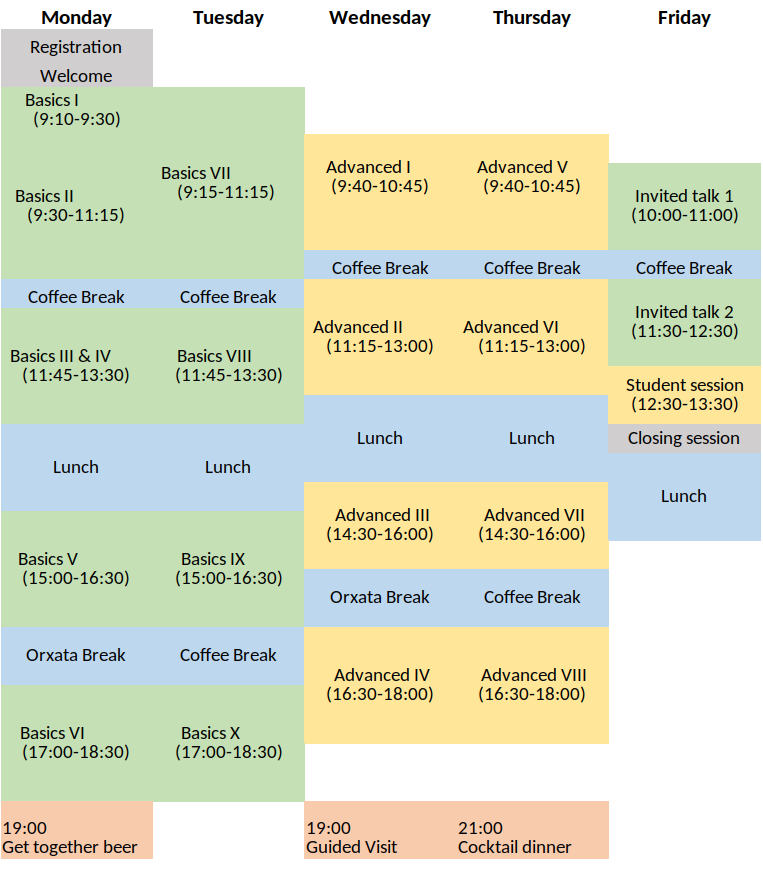
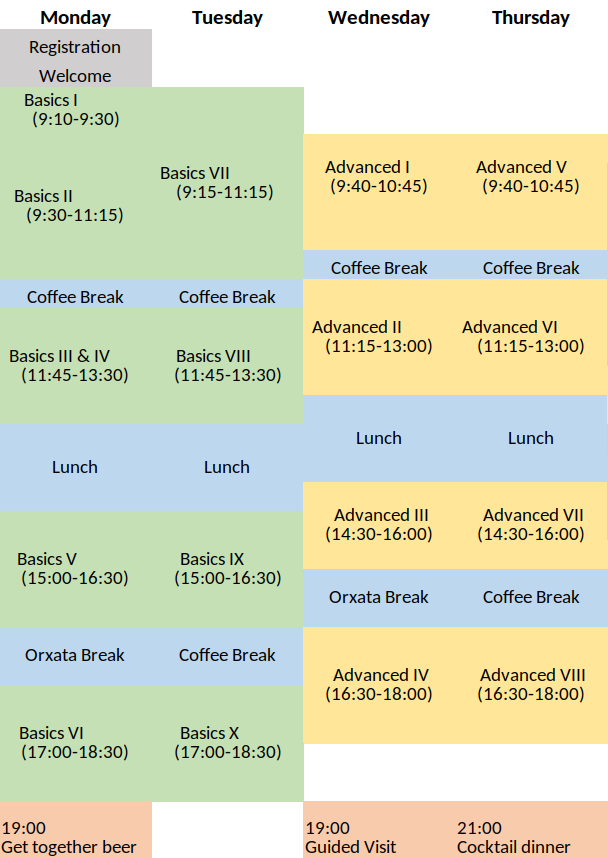
vibass8.including preliminar schedule.

diff --git a/_posts/events/2025-01-17-vibass8/2025-01-17-vibass8.md b/_posts/events/2025-01-17-vibass8/2025-01-17-vibass8.md
@@ -77,10 +77,9 @@ València
   Bayesian modelling with brms (12 hours)\
   Javier Enrique Aguilar
 
-<!--
 
 ![Schedule]({{ site.url }}/assets/vibass8/schedule.png)
--->
+
 
 
 <!--
